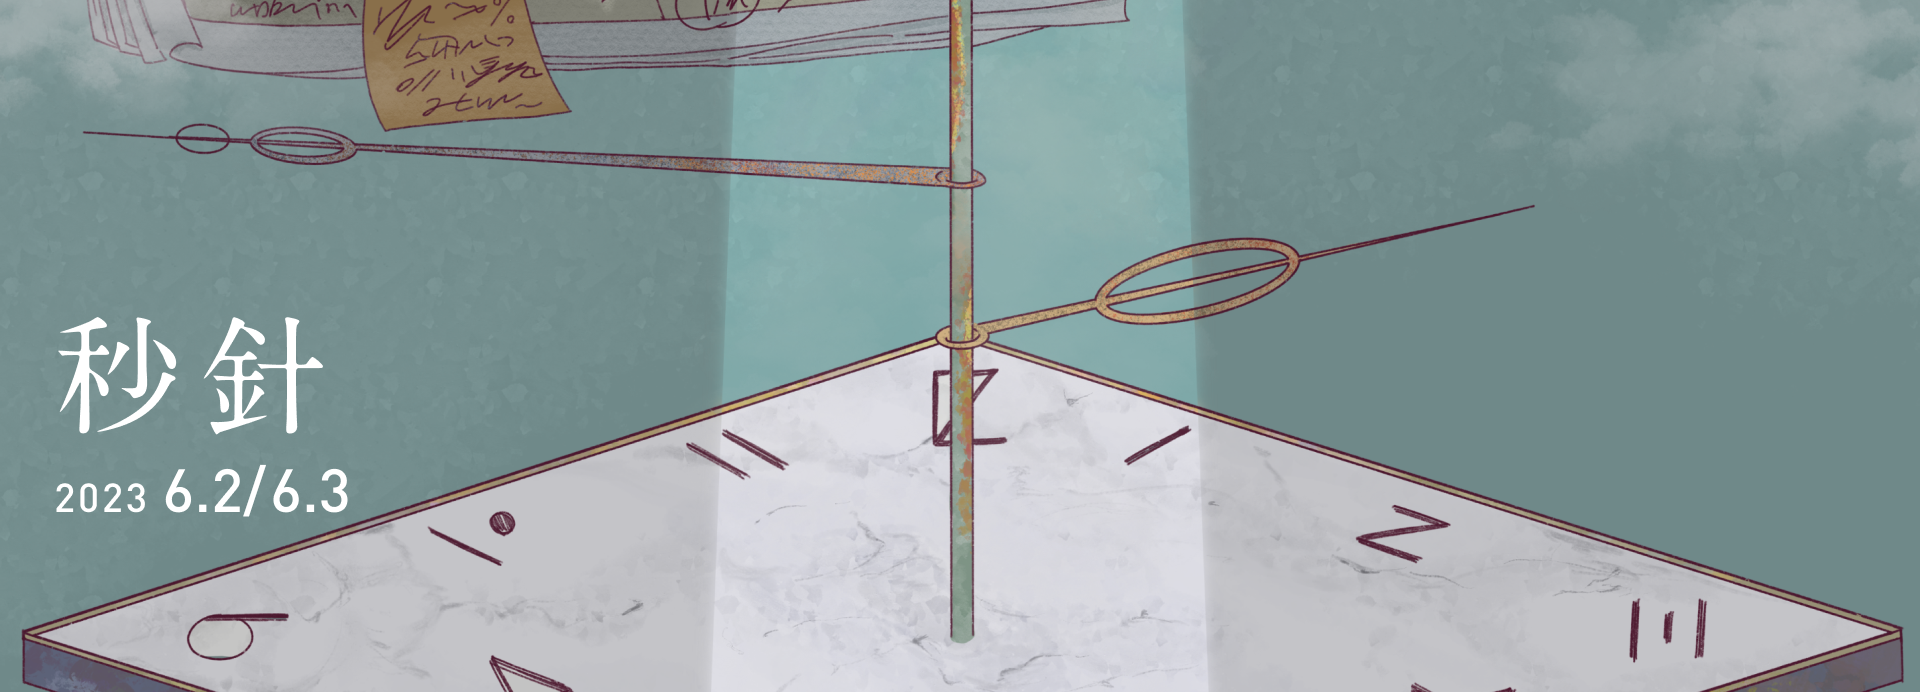
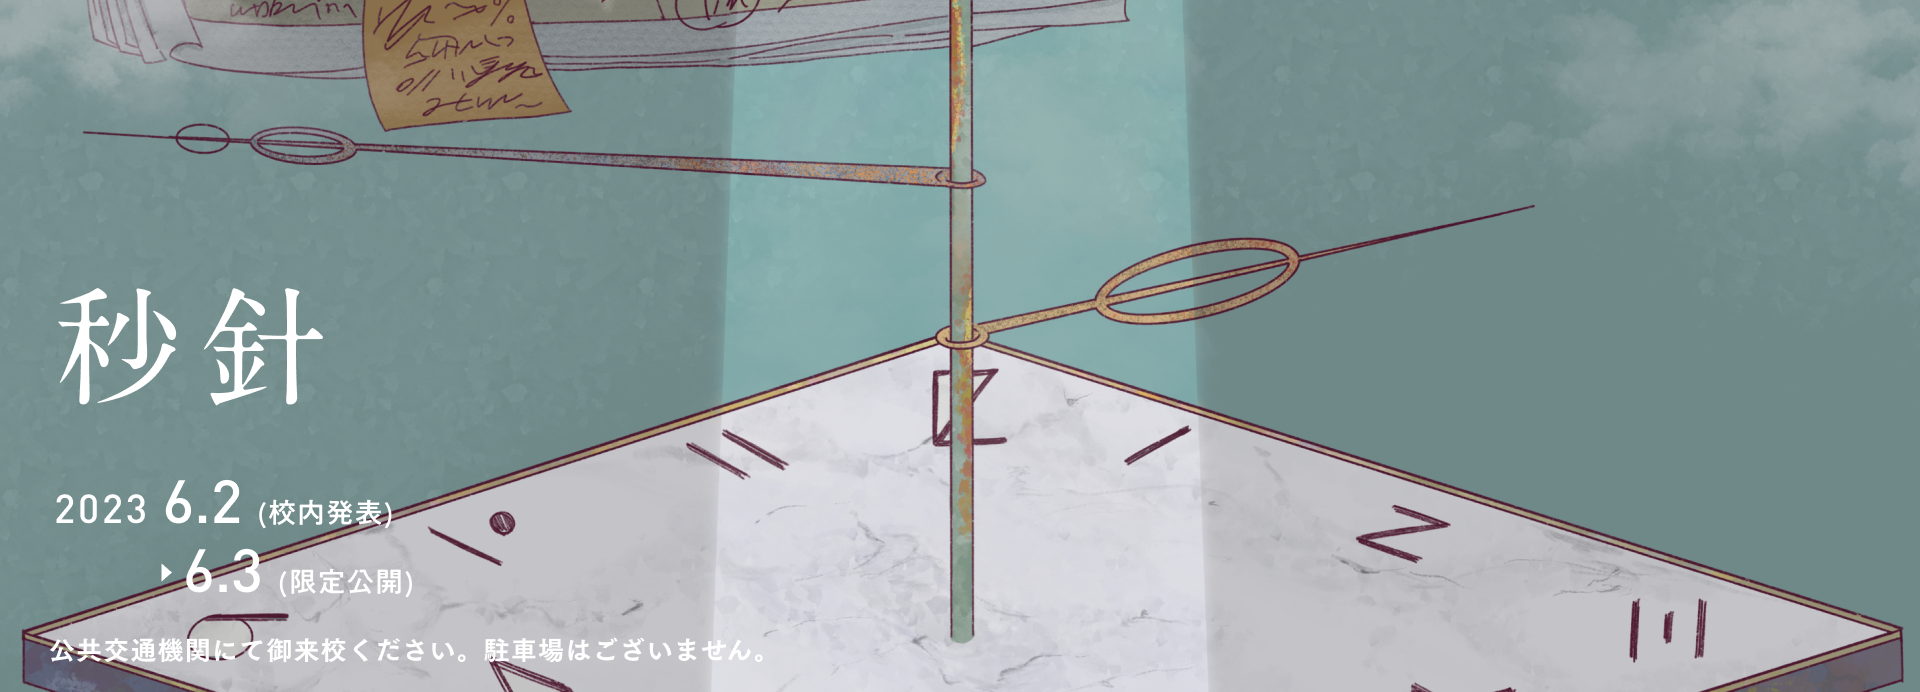
[fix]トップ画像修正

diff --git a/article7.html b/article7.html
@@ -3,7 +3,7 @@
     <head>
         <meta charset="utf-8">
         <meta name="viewport" content="width=device-width, initial-scale=1">
-        <title>新着投稿-彩西祭2023</title>
+        <title>開催形式が決定しました-彩西祭2023</title>
         <meta name="description" content="2023年度浜松西高等学校・同中等部文化祭「彩西祭」公式ウェブサイトへようこそ。当日の情報から準備の様子まで、様々なことを発信していきます。" />
         <link rel="stylesheet" href="https://cdn.jsdelivr.net/npm/swiper@9/swiper-bundle.min.css" />
         <link rel="stylesheet" href="css/style.css">
@@ -63,8 +63,8 @@
                 </div>
             </div>
             <div id="article_text">
-                <p>　今年度の彩西祭の開催形式が決定しました。以下のように公開対象を制限して一般公開をします。
-                <br><一般公開対象>
+                <p>　今年度の彩西祭の開催形式が決定しました。以下のように公開対象を制限して一般公開をします。6月2日 (校内発表)、6月3日 (限定公開)の日程で実施します。
+                <br>＜一般公開対象＞
                 <br>○本校卒業生
                 <br>○保護者等
                 <br>○小学生とその保護者

diff --git a/article5.html b/article5.html
@@ -3,7 +3,7 @@
     <head>
         <meta charset="utf-8">
         <meta name="viewport" content="width=device-width, initial-scale=1">
-        <title>新着投稿-彩西祭2023</title>
+        <title>テーマイラストが決定しました！-彩西祭2023</title>
         <meta name="description" content="2023年度浜松西高等学校・同中等部文化祭「彩西祭」公式ウェブサイトへようこそ。当日の情報から準備の様子まで、様々なことを発信していきます。" />
         <link rel="stylesheet" href="https://cdn.jsdelivr.net/npm/swiper@9/swiper-bundle.min.css" />
         <link rel="stylesheet" href="css/style.css">

diff --git a/article1.html b/article1.html
@@ -3,7 +3,7 @@
     <head>
         <meta charset="utf-8">
         <meta name="viewport" content="width=device-width, initial-scale=1">
-        <title>新着投稿-彩西祭2023</title>
+        <title>ホームページを開設しました！-彩西祭2023</title>
         <meta name="description" content="2023年度浜松西高等学校・同中等部文化祭「彩西祭」公式ウェブサイトへようこそ。当日の情報から準備の様子まで、様々なことを発信していきます。" />
         <link rel="stylesheet" href="https://cdn.jsdelivr.net/npm/swiper@9/swiper-bundle.min.css" />
         <link rel="stylesheet" href="css/style.css">

diff --git a/article4.html b/article4.html
@@ -3,7 +3,7 @@
     <head>
         <meta charset="utf-8">
         <meta name="viewport" content="width=device-width, initial-scale=1">
-        <title>新着投稿-彩西祭2023</title>
+        <title>彩西祭のロゴが決定しました！-彩西祭2023</title>
         <meta name="description" content="2023年度浜松西高等学校・同中等部文化祭「彩西祭」公式ウェブサイトへようこそ。当日の情報から準備の様子まで、様々なことを発信していきます。" />
         <link rel="stylesheet" href="https://cdn.jsdelivr.net/npm/swiper@9/swiper-bundle.min.css" />
         <link rel="stylesheet" href="css/style.css">

diff --git a/article2.html b/article2.html
@@ -3,7 +3,7 @@
     <head>
         <meta charset="utf-8">
         <meta name="viewport" content="width=device-width, initial-scale=1">
-        <title>新着投稿-彩西祭2023</title>
+        <title>文化祭本部を紹介します-彩西祭2023</title>
         <meta name="description" content="2023年度浜松西高等学校・同中等部文化祭「彩西祭」公式ウェブサイトへようこそ。当日の情報から準備の様子まで、様々なことを発信していきます。" />
         <link rel="stylesheet" href="https://cdn.jsdelivr.net/npm/swiper@9/swiper-bundle.min.css" />
         <link rel="stylesheet" href="css/style.css">

diff --git a/article6.html b/article6.html
@@ -3,7 +3,7 @@
     <head>
         <meta charset="utf-8">
         <meta name="viewport" content="width=device-width, initial-scale=1">
-        <title>新着投稿-彩西祭2023</title>
+        <title>昨年度の彩西祭の様子-彩西祭2023</title>
         <meta name="description" content="2023年度浜松西高等学校・同中等部文化祭「彩西祭」公式ウェブサイトへようこそ。当日の情報から準備の様子まで、様々なことを発信していきます。" />
         <link rel="stylesheet" href="https://cdn.jsdelivr.net/npm/swiper@9/swiper-bundle.min.css" />
         <link rel="stylesheet" href="css/style.css">

diff --git a/article3.html b/article3.html
@@ -3,7 +3,7 @@
     <head>
         <meta charset="utf-8">
         <meta name="viewport" content="width=device-width, initial-scale=1">
-        <title>新着投稿-彩西祭2023</title>
+        <title>テーマに寄せる思い-彩西祭2023</title>
         <meta name="description" content="2023年度浜松西高等学校・同中等部文化祭「彩西祭」公式ウェブサイトへようこそ。当日の情報から準備の様子まで、様々なことを発信していきます。" />
         <link rel="stylesheet" href="https://cdn.jsdelivr.net/npm/swiper@9/swiper-bundle.min.css" />
         <link rel="stylesheet" href="css/style.css">
